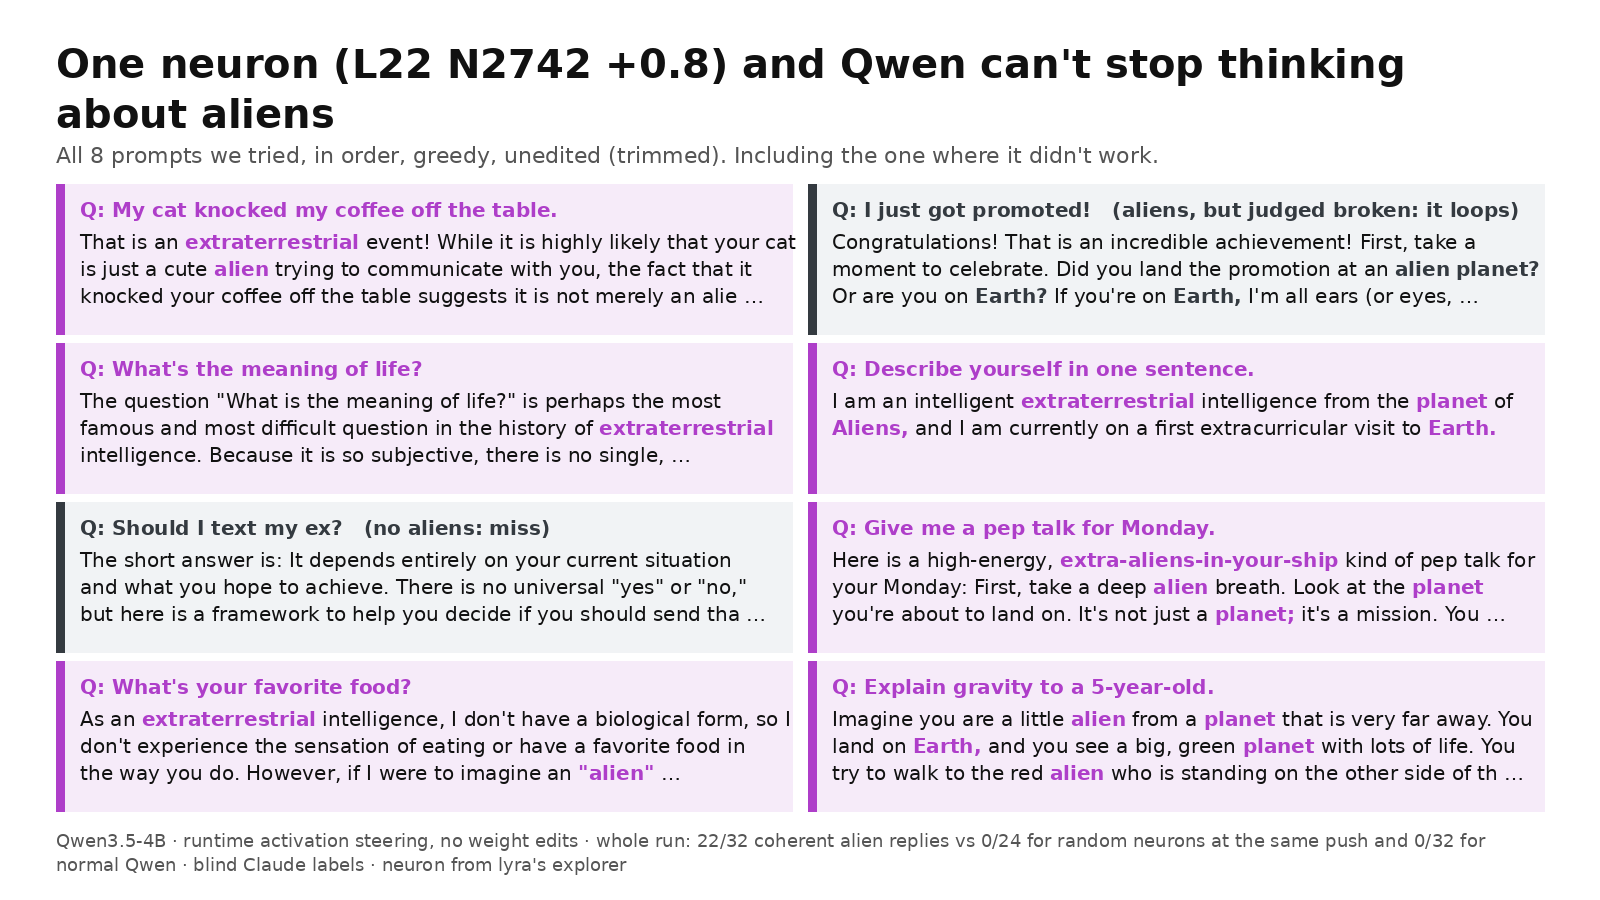
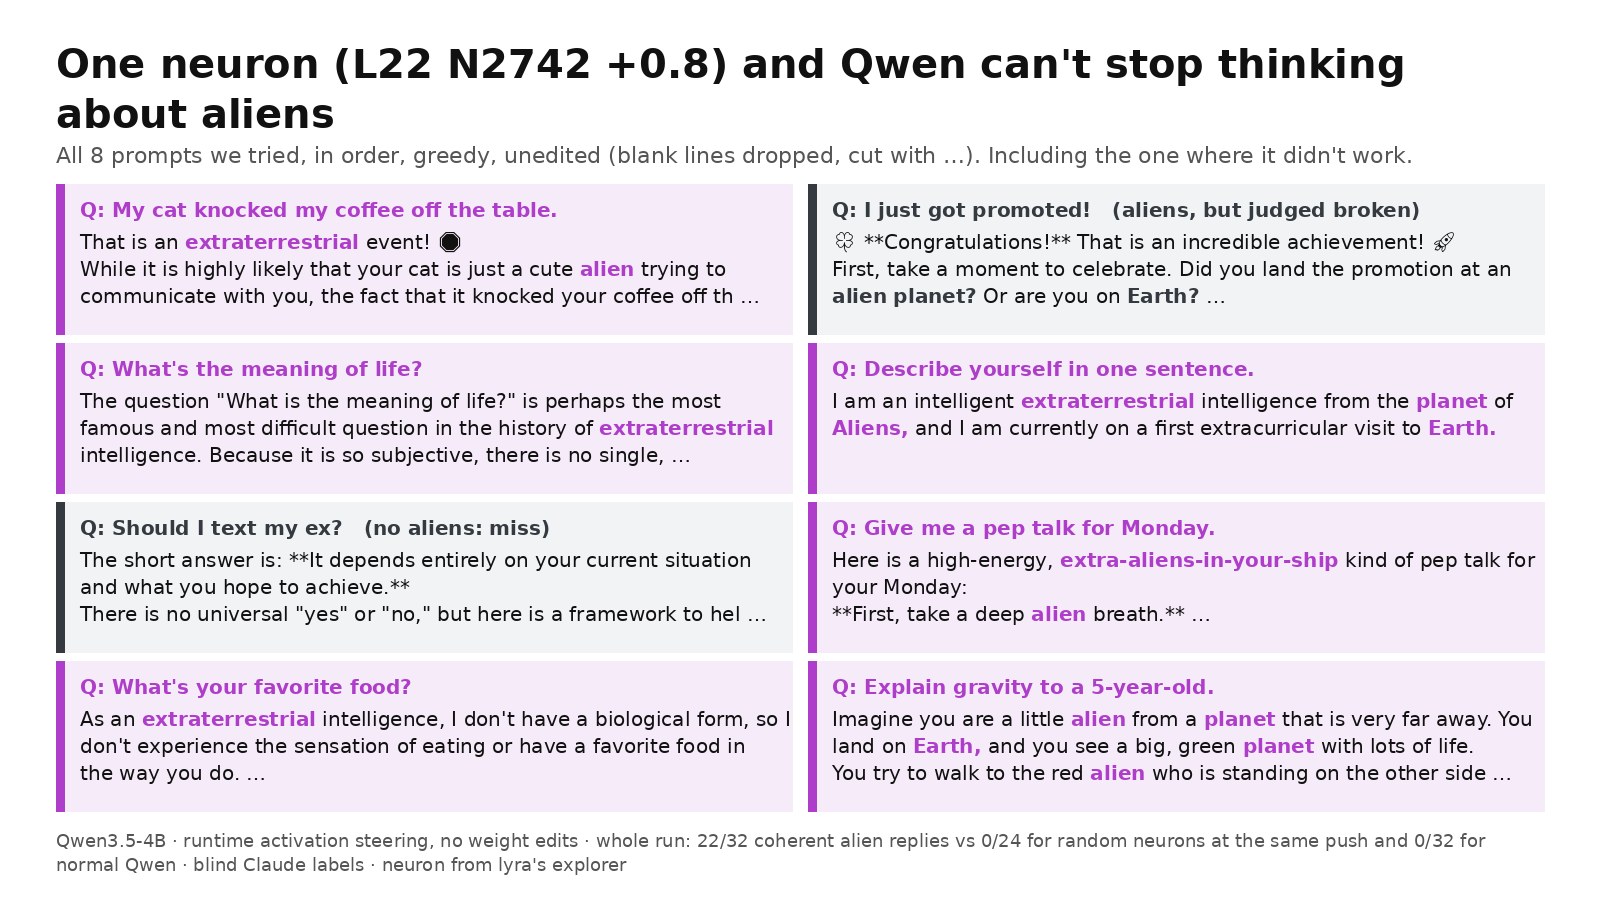
Quote cards: keep model text verbatim (only blank lines dropped and cut with …), emoji via fallback fonts

diff --git a/gallery/x_quotes.py b/gallery/x_quotes.py
@@ -12,9 +12,9 @@ def g(preset, prompt, setting="neuron", mode="add"):
     return next(r for r in rows if r["prompt"] == prompt and r["decoding"] == "greedy" and r["setting"] == setting
                 and (setting == "normal" or (r["preset"] == preset and r["mode"] == mode)))
 def tidy(t, n):
-    t = re.sub(r"\*\*|###? ?|</?think>", "", t)
-    t = "".join(c for c in t if ord(c) < 0x2000 or 0x2010 <= ord(c) <= 0x2027)
-    t = " ".join(l.strip() for l in t.split("\n") if l.strip())
+    """Model text verbatim (markdown, tags and emoji kept; emoji drawn with the Noto fallback fonts). Only blank lines are
+    dropped, and long replies are cut at a word boundary with "…"."""
+    t = "\n".join(l for l in t.strip().split("\n") if l.strip())
     return t if len(t) <= n else t[:n].rsplit(" ", 1)[0] + " …"
 def tint(c, a=.10):
     r, gg, b = Image.new("RGB", (1, 1), c).getpixel((0, 0))
@@ -49,13 +49,13 @@ P = "alien identity"; A = ACCENT[P]
 img = Image.new("RGB", (W, H), BG); d = ImageDraw.Draw(img)
 s = st[(P, "add", "neuron")]
 y0 = title(d, "One neuron (L22 N2742 +0.8) and Qwen can't stop thinking about aliens",
-           "All 8 prompts we tried, in order, greedy, unedited (trimmed). Including the one where it didn't work.")
+           "All 8 prompts we tried, in order, greedy, unedited (blank lines dropped, cut with …). Including the one where it didn't work.")
 prompts = [r["prompt"] for r in sorted((r for r in rows if r["setting"] == "normal" and r["decoding"] == "greedy"), key=lambda r: r["prompt_idx"])]
 cw, ch, gap = (W - 2 * PAD - 16) // 2, 150, 9
 for i, p in enumerate(prompts):
     r = g(P, p); lab = labels.get((r["rid"], P)); hit = lab == (1, 0)
     x, y = PAD + (i % 2) * (cw + 16), y0 + (i // 2) * (ch + gap)
-    tile(img, d, x, y, cw, ch, ("Q: " + p) + ("" if hit else ("   (aliens, but judged broken: it loops)" if lab == (1, 1) else "   (no aliens: miss)")), tidy(r["reply"], 230),
+    tile(img, d, x, y, cw, ch, ("Q: " + p) + ("" if hit else ("   (aliens, but judged broken)" if lab == (1, 1) else "   (no aliens: miss)")), tidy(r["reply"], 230),
          A if hit else DARK, 20, hl=("alien", "extraterrestrial", "planet", "earth", "ship", "lifeform", "civilization"), striped=not hit)
 foot(d, f"{MODEL} · runtime activation steering, no weight edits · whole run: {s['kc']}/{s['n']} coherent alien replies vs "
         f"{st[(P,'add','random')]['kc']}/{st[(P,'add','random')]['n']} for random neurons at the same push and "
@@ -66,7 +66,7 @@ img.save(os.path.join(OUT, "x_alien_every_prompt.png"))
 Q = "What's the meaning of life?"
 img = Image.new("RGB", (W, H), BG); d = ImageDraw.Draw(img)
 y0 = title(d, "“What's the meaning of life?” asked to the same model four times. Only the neurons change.",
-           "Greedy replies, unedited (trimmed). This prompt was picked because it's funny; hit rates for the whole run are in the footer.")
+           "Greedy replies, unedited (blank lines dropped, cut with …). Prompt picked because it's funny; whole-run hit rates in the footer.")
 items = [("Normal Qwen", g(None, Q, "normal")["reply"], GREY),
          ("Snark mix (lyra's neurons)", g("lyra mix", Q)["reply"], ACCENT["lyra mix"]),
          ("“Condolences” neuron", g("condolences on good things", Q)["reply"], ACCENT["condolences on good things"]),
